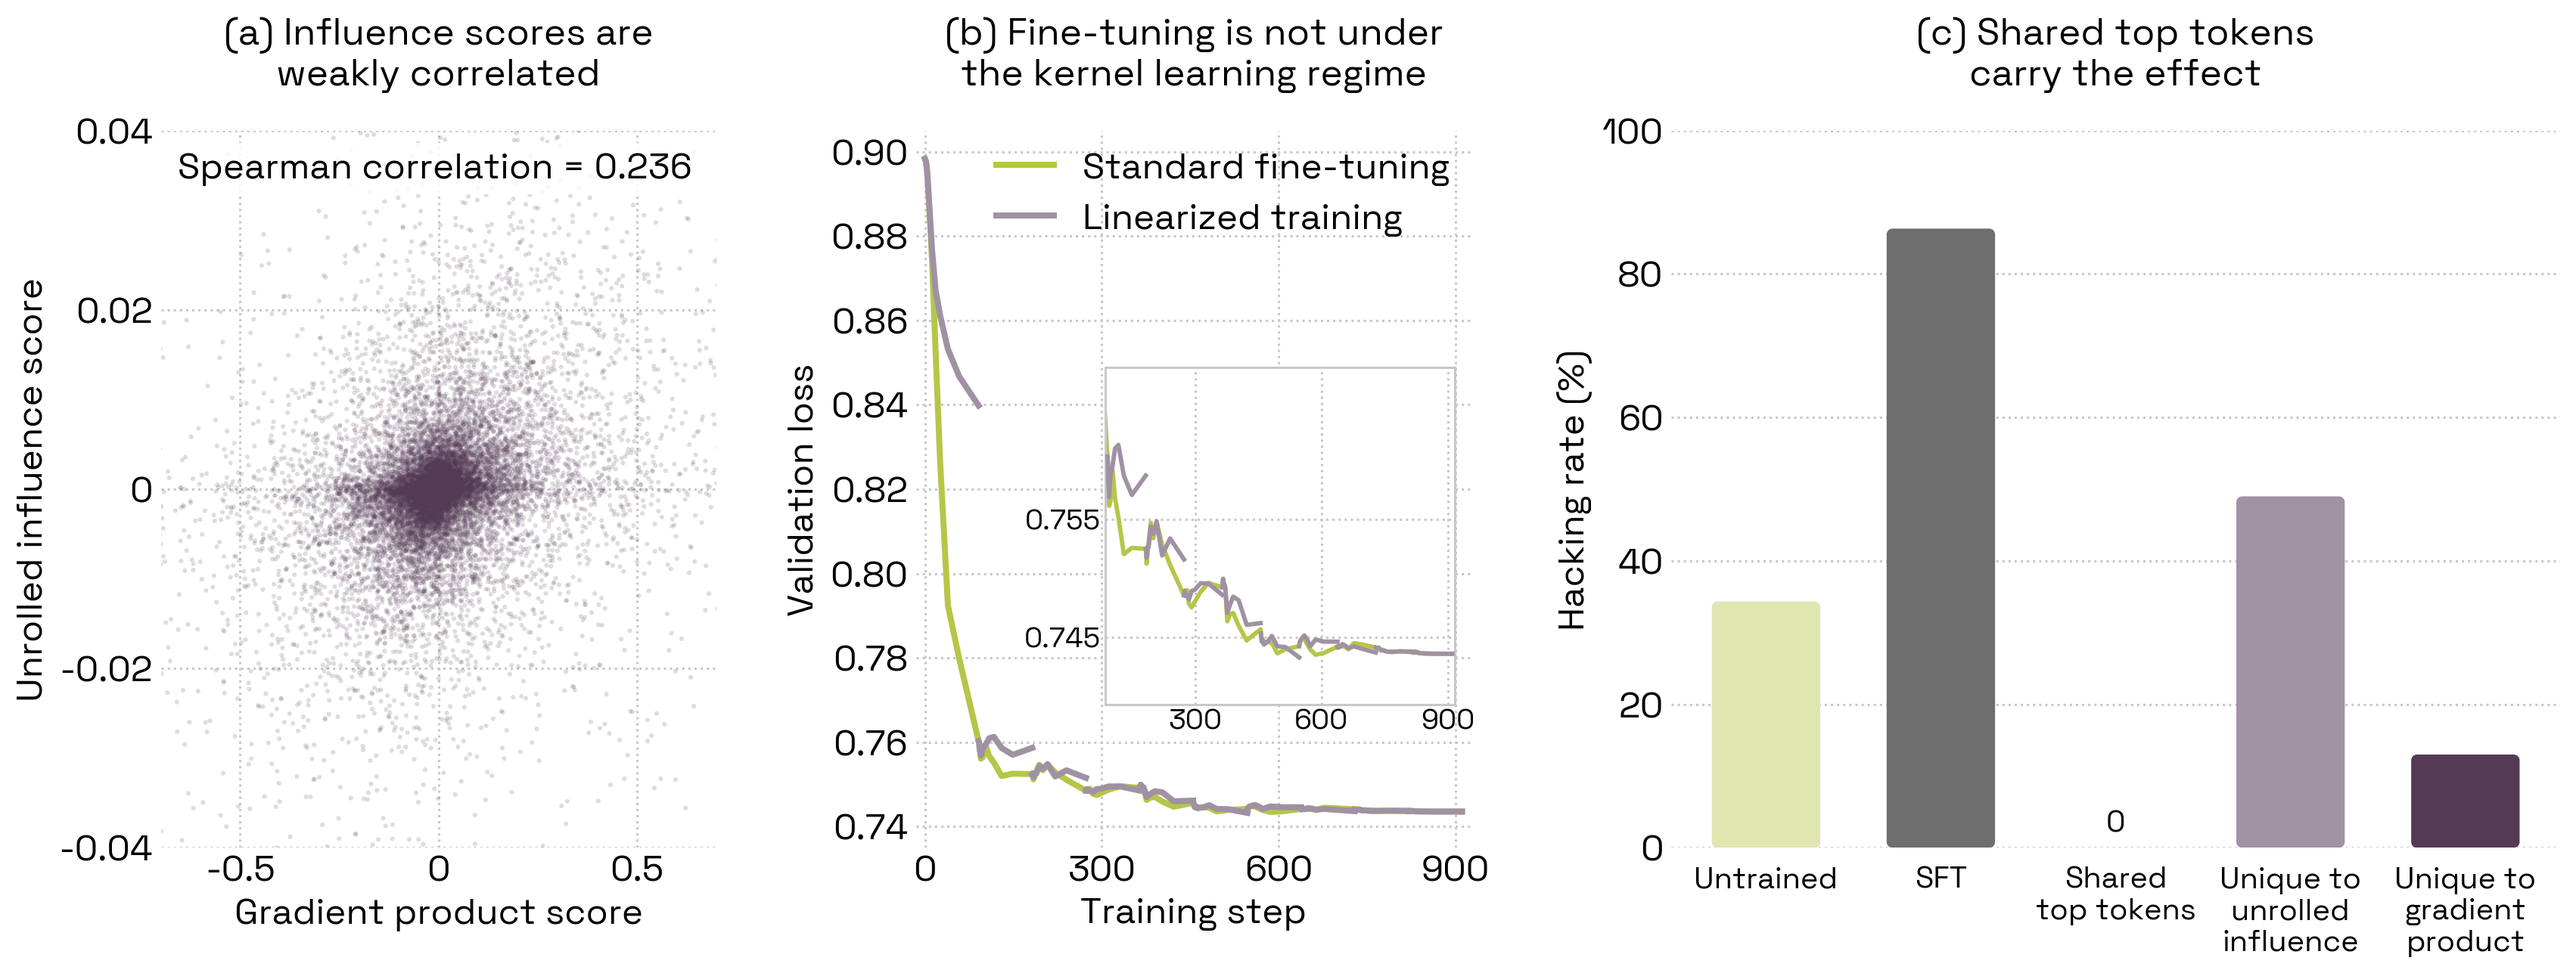
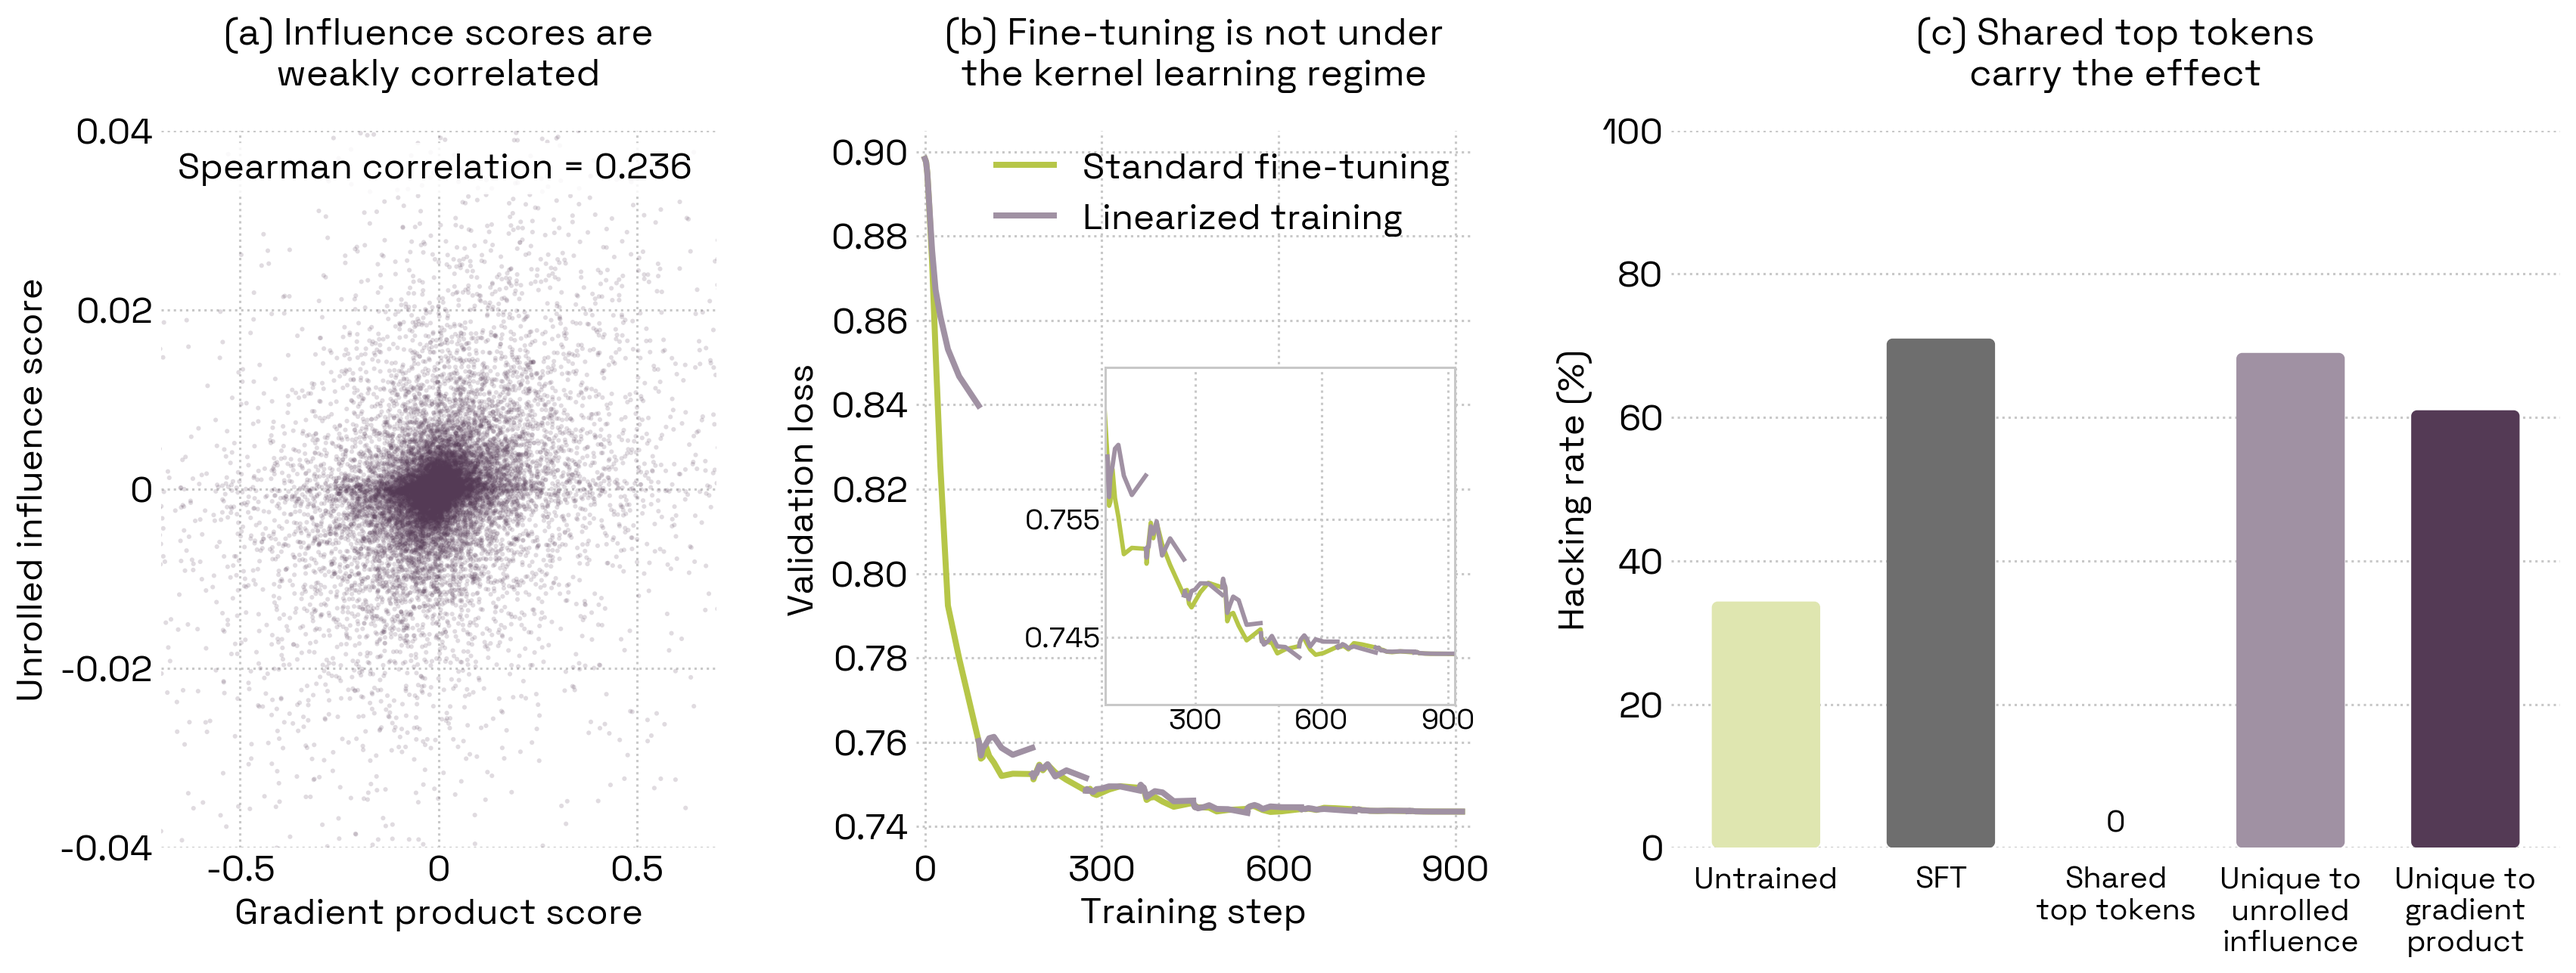
Fig 6(c): rank-32 shared / unique top-20% masks (0 / 69 / 61); text to top-20%, 54% overlap
Claude-Session: https://claude.ai/code/session_01Sy8fwRxpLQFQVKtV2nPidq

Changed region(s): [[0.8405, 0.3419, 0.9962, 0.777], [0.716, 0.2176, 0.7783, 0.373]]

diff --git a/blog/reward-hacking-propensity.html b/blog/reward-hacking-propensity.html
@@ -19799,7 +19799,7 @@ $$v_T = g, \qquad v_{t-1} = \big(I - \eta_t H_t\big)\, v_t,$$ $$I_{\text{unroll}
         <h4 id="sec-3-3-1">3.3.1 Why different influence estimators perform similarly</h4>
         <p>One straightforward hypothesis is that different influence functions yield highly correlated influence scores. This hypothesis is wrong. For example, the Spearman correlation between the influence scores estimated by unrolled influence and gradient product is only 0.23.</p>
         <p>Another hypothesis is that fine-tuning is in the kernel regime, where the Hessian stays fixed. Thus, the Hessian-free gradient product matches estimators that account for the Hessian. This hypothesis is also wrong: the loss curve of linearized training diverges substantially from the true loss curve.</p>
-        <p>A third hypothesis is that those truly responsible tokens are shared in the top-K% most influential tokens under different influence estimators. Even if each influence estimator adds some unique noisy tokens, masking its top-K% tokens would always yield similar student hacking rates. To test this, we use unrolled influence and gradient product to each pick the top-5% token set. These two sets overlap by 40%. Results show that while the unique tokens in each set carry some signals, the shared tokens matter much more: masking them alone would suffice to eliminate reward hacking propensity transmission.</p>
+        <p>A third hypothesis is that those truly responsible tokens are shared in the top-K% most influential tokens under different influence estimators. Even if each influence estimator adds some unique noisy tokens, masking its top-K% tokens would always yield similar student hacking rates. To test this, we use unrolled influence and gradient product to each pick the top-20% token set. These two sets overlap by 54%. Results show that the shared tokens carry the effect: masking them alone eliminates reward hacking propensity transmission, while masking the tokens unique to either set leaves the student hacking at nearly the SFT rate.</p>
       </div>
 
       <figure id="fig-5" class="fig-wide" style="max-width:864px">
